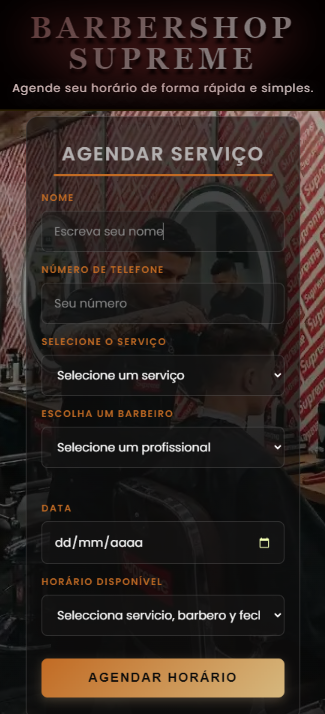
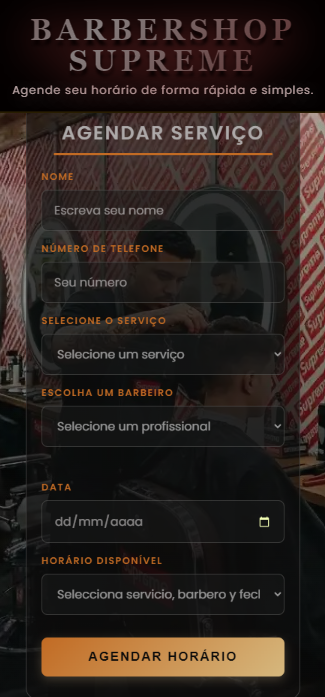
Atualiza estilos de CSS e imagem de pré-visualização

diff --git a/style.css b/style.css
@@ -1,8 +1,8 @@
 :root {
     --dorado-premium: #c26b24;
     --dorado-brillante: #ebb81f;
-    --blanco-puro: #ffffff;
-    --texto-secundario: #f7f7f7;
+    --blanco-puro: #ffffff8e;
+    --texto-secundario: #f7f7f7c7;
     --fuente-elegante: 'Poppins', sans-serif;
 }
 
@@ -124,7 +124,7 @@ html {
 }
 
 .bienvenida {
-    color: rgb(219, 218, 218);
+    color: rgba(219, 218, 218, 0.849);
     font-size: clamp(13px, 2vw, 17px);
     letter-spacing: 1px;
     text-shadow: 1px 1px 5px rgba(61, 63, 45, 0.858);
@@ -146,7 +146,7 @@ html {
   
   text-shadow: 
     6px 5px 20px rgba(53, 48, 48, 0.89),
-    0px 0px 0px rgba(209, 203, 203, 0.986);
+    0px 0px 0px rgba(209, 203, 203, 0.822);
   
 
   background-size: 200% auto;
@@ -204,7 +204,7 @@ background-color: rgba(14, 13, 13, 0.623);
     margin-bottom: 30px;
     text-transform: uppercase;
     letter-spacing: 2px;
-    color:rgba(201, 201, 201, 0.842);
+    color:rgba(185, 183, 183, 0.897);
     font-weight: 600;
     position: relative;
 }
@@ -243,9 +243,9 @@ input[type="tel"],
 input[type="date"],
 select {
 
-    background-color: rgba(26, 25, 25, 0.411);
+    background-color: rgba(26, 25, 25, 0.514);
     color: var(--blanco-puro);
-    border: 1px solid rgba(255, 255, 255, 0.15);
+    border: 1px solid rgba(160, 159, 157, 0.288);
     padding: 14px 16px;
     font-size: 1rem;
     border-radius: 8px;
@@ -259,11 +259,11 @@ input:focus,
 select:focus {
     border-color: var(--dorado-premium);
     background-color: rgba(30, 30, 30, 0.9);
-    box-shadow: 0 0 15px rgba(197, 168, 128, 0.25);
+    box-shadow: 0 0 15px rgba(197, 168, 128, 0.295);
 }
 
 ::placeholder {
-    color: #888888;
+    color: #c9c6c6ab;
 }
 
 input[type="date"] {
@@ -274,12 +274,14 @@ input[type="date"] {
   width: 100%;
   max-width: 100%;
   min-height: 2.5rem; 
+  color: rgba(241, 239, 239, 0.534);
 }
 input[type="date"]::-webkit-calendar-picker-indicator {
   filter: invert(1) sepia(50%) saturate(1000%) hue-rotate(10deg);
   cursor: pointer;
   position: relative;
   right: 0;
+ 
 }
 
 
@@ -453,6 +455,7 @@ input[type="date"]::-webkit-calendar-picker-indicator {
     opacity: 0;
     height: 0;
     overflow: hidden;
+    
 }
 
 
